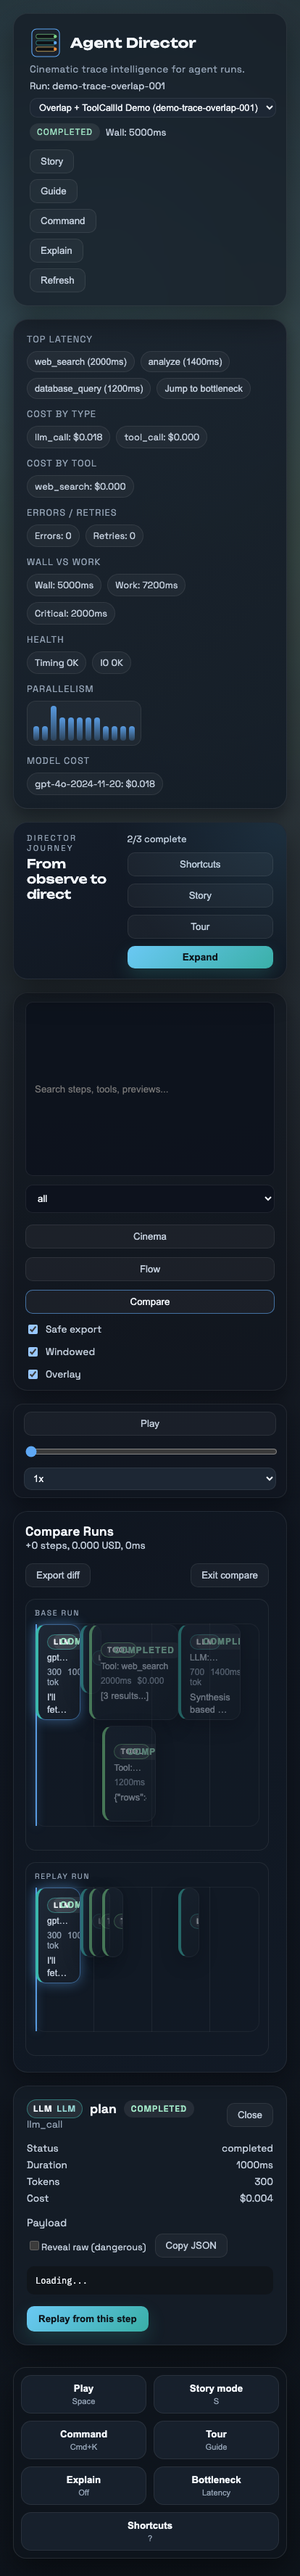
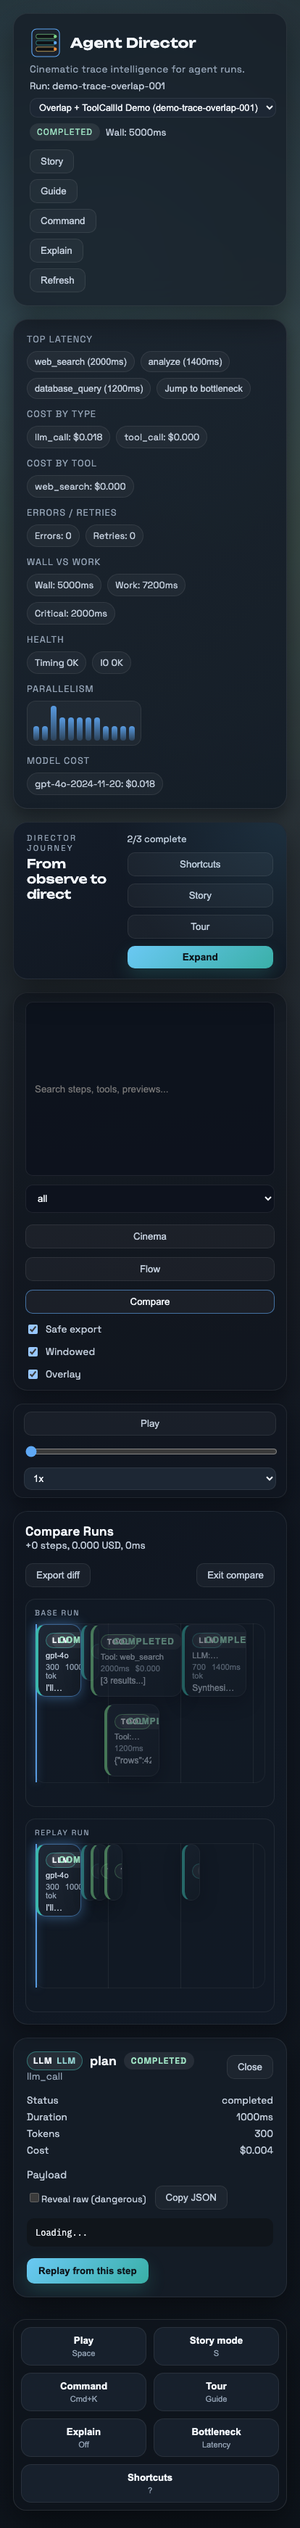
fix(ui): tighten compare timelines and compact cards

diff --git a/ui/src/components/CinemaMode/TimestampTimeline.tsx b/ui/src/components/CinemaMode/TimestampTimeline.tsx
@@ -1,9 +1,12 @@
+import type { CSSProperties } from 'react';
 import type { StepSummary, TraceSummary } from '../../types';
 import { buildIntervals } from '../../utils/timingUtils';
 import StepCard from './StepCard';
 import { derivePlaybackState } from '../../utils/playback';
 
 const LANE_HEIGHT = 140;
+const CARD_HEIGHT = 132;
+const COMPACT_HEIGHT = 96;
 
 const typeOrder: Record<string, number> = {
   llm_call: 1,
@@ -32,6 +35,9 @@ type TimestampTimelineProps = {
     changedSteps: string[];
     changedPairs?: Array<{ leftId: string; rightId: string }>;
   } | null;
+  laneHeight?: number;
+  cardHeight?: number;
+  compactHeight?: number;
 };
 
 export default function TimestampTimeline({
@@ -44,6 +50,9 @@ export default function TimestampTimeline({
   windowRange,
   ghostTrace,
   diff,
+  laneHeight = LANE_HEIGHT,
+  cardHeight = CARD_HEIGHT,
+  compactHeight = COMPACT_HEIGHT,
 }: TimestampTimelineProps) {
   const { intervals, laneCount } = buildIntervals(trace.startedAt, trace.endedAt, steps);
   const intervalMap = new Map(intervals.map((interval) => [interval.stepId, interval]));
@@ -73,10 +82,18 @@ export default function TimestampTimeline({
   const visibleStepIds = new Set(visibleIntervals.map((interval) => interval.stepId));
 
   return (
-    <div className="timeline">
+    <div
+      className="timeline"
+      style={
+        {
+          '--step-card-height': `${cardHeight}px`,
+          '--step-compact-height': `${compactHeight}px`,
+        } as CSSProperties
+      }
+    >
       <div
         className="timeline-grid"
-        style={{ height: `${laneCount * LANE_HEIGHT}px` }}
+        style={{ height: `${laneCount * laneHeight}px` }}
         data-help
         data-help-title="Timeline lanes"
         data-help-body="Each lane stacks overlapping steps; width reflects duration."
@@ -99,6 +116,7 @@ export default function TimestampTimeline({
               diffStatus={
                 diffRemoved.has(step.id) ? 'removed' : diffChangedLeft.has(step.id) ? 'changed' : null
               }
+              laneHeight={laneHeight}
               onSelect={onSelectStep}
             />
           );
@@ -111,6 +129,7 @@ export default function TimestampTimeline({
             windowRange={windowRange}
             diffAdded={diffAdded}
             diffChanged={diffChangedRight}
+            laneHeight={laneHeight}
           />
         ) : null}
       </div>
@@ -125,6 +144,7 @@ function GhostOverlay({
   windowRange,
   diffAdded,
   diffChanged,
+  laneHeight,
 }: {
   ghostTrace: TraceSummary;
   baseWallTimeMs: number;
@@ -132,6 +152,7 @@ function GhostOverlay({
   windowRange?: { startMs: number; endMs: number } | null;
   diffAdded: Set<string>;
   diffChanged: Set<string>;
+  laneHeight: number;
 }) {
   const { intervals, laneCount } = buildIntervals(ghostTrace.startedAt, ghostTrace.endedAt, ghostTrace.steps);
   const intervalMap = new Map(intervals.map((interval) => [interval.stepId, interval]));
@@ -155,7 +176,7 @@ function GhostOverlay({
 
   return (
     <>
-      <div className="ghost-lanes" style={{ height: `${laneCount * LANE_HEIGHT}px` }} />
+      <div className="ghost-lanes" style={{ height: `${laneCount * laneHeight}px` }} />
       {sortedGhostSteps
         .filter((step) => visibleStepIds.has(step.id))
         .map((step) => {
@@ -173,6 +194,7 @@ function GhostOverlay({
               diffStatus={diffStatus}
               variant="ghost"
               disabled
+              laneHeight={laneHeight}
               onSelect={() => undefined}
             />
           );

diff --git a/ui/src/styles/main.css b/ui/src/styles/main.css
@@ -679,6 +679,8 @@ pre {
 .timeline {
   position: relative;
   padding-bottom: 20px;
+  --step-card-height: 132px;
+  --step-compact-height: 96px;
 }
 
 .timeline-grid {
@@ -721,7 +723,7 @@ pre {
   cursor: pointer;
   transition: transform var(--transition-fast), box-shadow var(--transition-fast), border-color var(--transition-fast);
   overflow: hidden;
-  height: 132px;
+  height: var(--step-card-height);
 }
 
 .step-card:hover {
@@ -907,7 +909,7 @@ pre {
 }
 
 .step-compact {
-  height: 96px;
+  height: var(--step-compact-height);
 }
 
 .step-compact .step-subtitle,
@@ -1320,9 +1322,7 @@ pre {
   flex-direction: column;
   gap: 16px;
   height: 100%;
-  overflow: auto;
-  padding-right: 8px;
-  padding-bottom: 6px;
+  overflow: hidden;
 }
 
 .compare-header {
@@ -1361,6 +1361,7 @@ pre {
   border-radius: var(--radius-md);
   padding: 12px;
   min-height: 260px;
+  overflow: hidden;
 }
 
 .compare-pane-title {
@@ -1369,6 +1370,29 @@ pre {
   text-transform: uppercase;
   letter-spacing: 0.16em;
   font-size: 0.65rem;
+}
+
+.compare-view .timeline-grid {
+  background-size: 100px 100%;
+}
+
+.compare-view .step-card {
+  padding: 10px;
+}
+
+.compare-view .step-subtitle {
+  font-size: 0.7rem;
+  margin-bottom: 4px;
+}
+
+.compare-view .step-metrics {
+  font-size: 0.7rem;
+  margin-bottom: 4px;
+}
+
+.compare-view .step-preview {
+  -webkit-line-clamp: 1;
+  font-size: 0.75rem;
 }
 
 .morph-layer {

diff --git a/ui/src/components/CinemaMode/StepCard.tsx b/ui/src/components/CinemaMode/StepCard.tsx
@@ -12,6 +12,7 @@ type StepCardProps = {
   variant?: 'base' | 'ghost';
   diffStatus?: 'changed' | 'added' | 'removed' | null;
   disabled?: boolean;
+  laneHeight?: number;
 };
 
 export default function StepCard({
@@ -23,6 +24,7 @@ export default function StepCard({
   variant = 'base',
   diffStatus,
   disabled = false,
+  laneHeight = 140,
 }: StepCardProps) {
   const costLabel = stepCostLabel(step);
   const subtitle = step.preview?.subtitle ?? step.preview?.title ?? '';
@@ -51,7 +53,7 @@ export default function StepCard({
       style={{
         left: `${interval.xPct}%`,
         width: `${interval.wPct}%`,
-        top: `${interval.lane * 140}px`,
+        top: `${interval.lane * laneHeight}px`,
       }}
       onClick={() => {
         if (disabled) return;

diff --git a/ui/src/components/Compare/index.tsx b/ui/src/components/Compare/index.tsx
@@ -110,6 +110,9 @@ export default function Compare({ baseTrace, compareTrace, playheadMs, onExit, s
             playheadPct={basePct}
             playheadMs={playheadMs}
             windowRange={null}
+            laneHeight={110}
+            cardHeight={100}
+            compactHeight={78}
           />
         </div>
         <div
@@ -128,6 +131,9 @@ export default function Compare({ baseTrace, compareTrace, playheadMs, onExit, s
             playheadPct={comparePct}
             playheadMs={playheadMs}
             windowRange={null}
+            laneHeight={110}
+            cardHeight={100}
+            compactHeight={78}
           />
         </div>
       </div>
